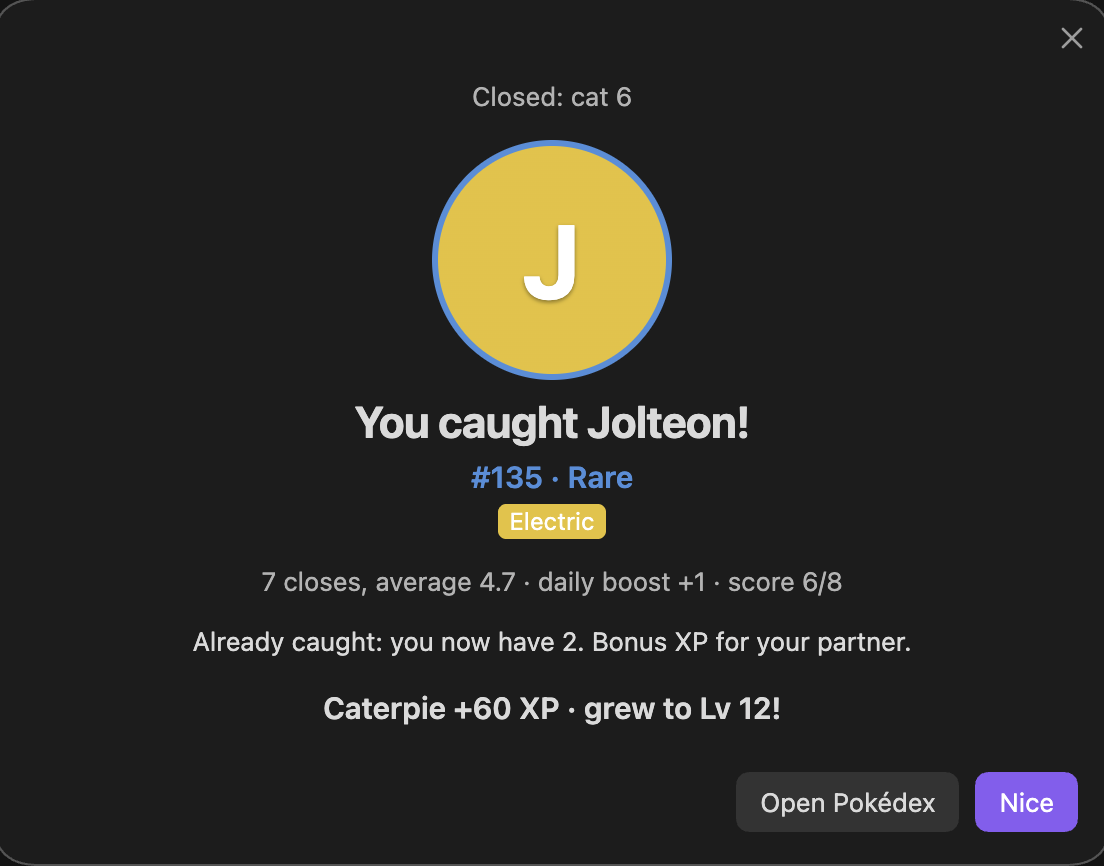
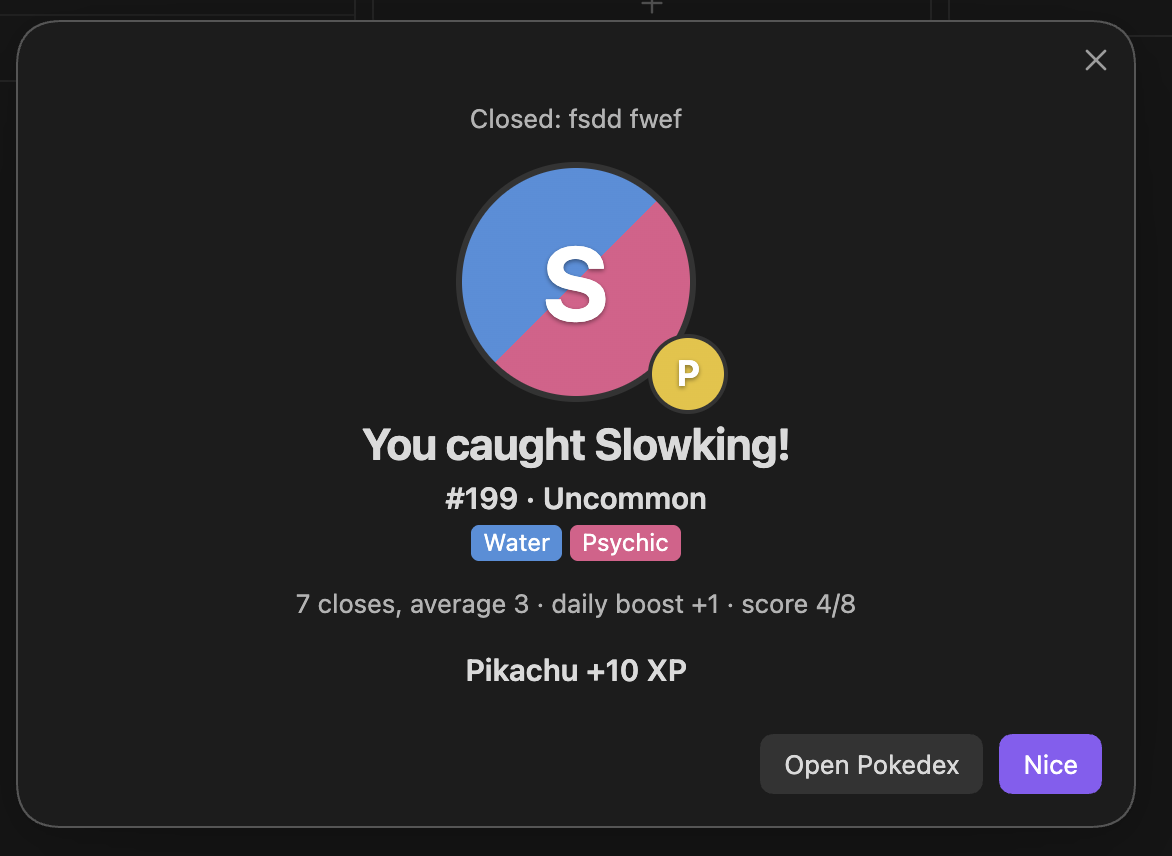
Docs: badge-only screenshots for the status bar partner, its setting and the reward window (#57)

diff --git a/docs/USER-GUIDE.md b/docs/USER-GUIDE.md
@@ -41,7 +41,7 @@ The number of closes needed is hidden and changes after every catch (somewhere f
 
 Prefer something quieter? Turn off **Show reward window** in the plugin's settings to get a short notice instead.
 
-![The reward window: Jolteon caught, the batch's closes, average and score out of 8, and the partner's XP](images/reward-window.png)
+![The reward window: Slowking caught, with the partner Pikachu's badge by it, the batch's closes, average, daily boost and score out of 8, and the partner's XP](images/reward-window.png)
 
 ## 3. The Pokedex view
 
@@ -92,6 +92,8 @@ Click any Pokémon you've caught to open its details.
 
 Your partner sits in Obsidian's status bar, for example "Charmeleon Lv 18", with a small picture of it: its badge, or its sprite if you downloaded sprites.
 
+![The status bar: Pikachu's badge next to "Pikachu Lv 5", beside other status bar items](images/status-bar-partner.png)
+
 When a close counts toward your next catch, the picture hops. When you catch a Pokémon, it hops higher with a few small dots, once you close the reward window. Closes over the daily limit don't move it, and a burst of closes moves it once. It stays still the rest of the time.
 
 Choose in **Settings → Sheiko Pokedex → Status bar partner**:
@@ -101,6 +103,8 @@ Choose in **Settings → Sheiko Pokedex → Status bar partner**:
 - **Hidden:** name and level only, and no partner in the reward window.
 
 If your system asks for reduced motion, Animated acts as Still.
+
+![The Status bar partner setting with its three options: Animated, Still and Hidden](images/status-bar-partner-setting.png)
 
 ![Hovering over the partner in the status bar shows its level and XP](images/status-bar-hover.png)
 
